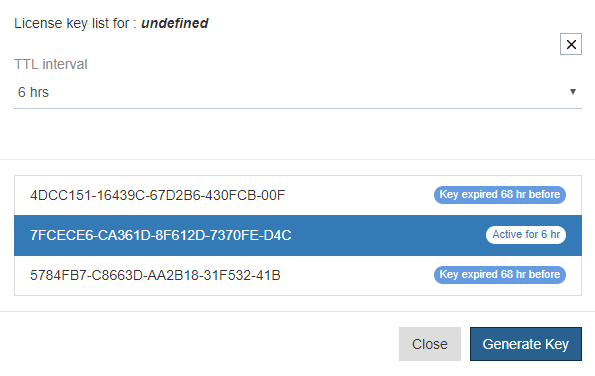
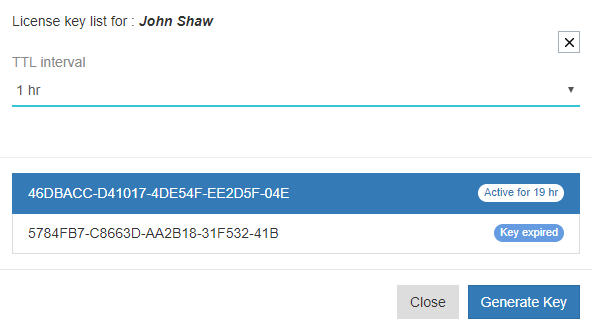
update

diff --git a/_posts/License-Management/2018-09-17-license-generation.md b/_posts/License-Management/2018-09-17-license-generation.md
@@ -42,16 +42,19 @@ Organizations.**
 ![rolling-window4](/staticfiles/licensekey/rolling-window4.png)        
 **Note: TTL is the Time-to-Live value, which the defines the amount of time, the generated key remains active.**
 5.	Click on the generate key button. The temporary license key will be generated successfully, then Copy the generated key.
-![rolling-window5](/staticfiles/licensekey/rolling-window5.png) 
+![rolling-window5](/staticfiles/licensekey/rolling-window5.png)   
+**Note: The Active key would be displayed on top followed by the latest expired key. 
+As multiple license key would be generated for an organisation, therefore multiple active keys 
+would be displayed in the dropdown.**  
 6.  Navigate to APPSeCONNECT OP Agent and paste the key in the Registration Key field, which can be viewed by 
     pressing the CTRL+F10 button.  
 ![rolling-window6](/staticfiles/licensekey/rolling-window6.png) 
 7.	Click on the login button after pasting the generated license key.  
 ![rolling-window7](/staticfiles/licensekey/rolling-window7.png) 
 
-**Note: (a)This feature of Generating Temporary License is solely for the Partners and the Developers.       
+**Note: (a) This feature of Generating Temporary License is solely for the Partners and the Developers.       
         (b) On expiration of the license key, the environment will no longer be accessible to the concerned Partner/Developer and would be auto-logged out from the agent.      
-        (c) Feed will not generate any login details of the user with respect to generating tempoarry license key for an organization.**
+        (c) Feed will not generate any login details of the user with respect to generating temporary license key for an organization.**
 
 
 
